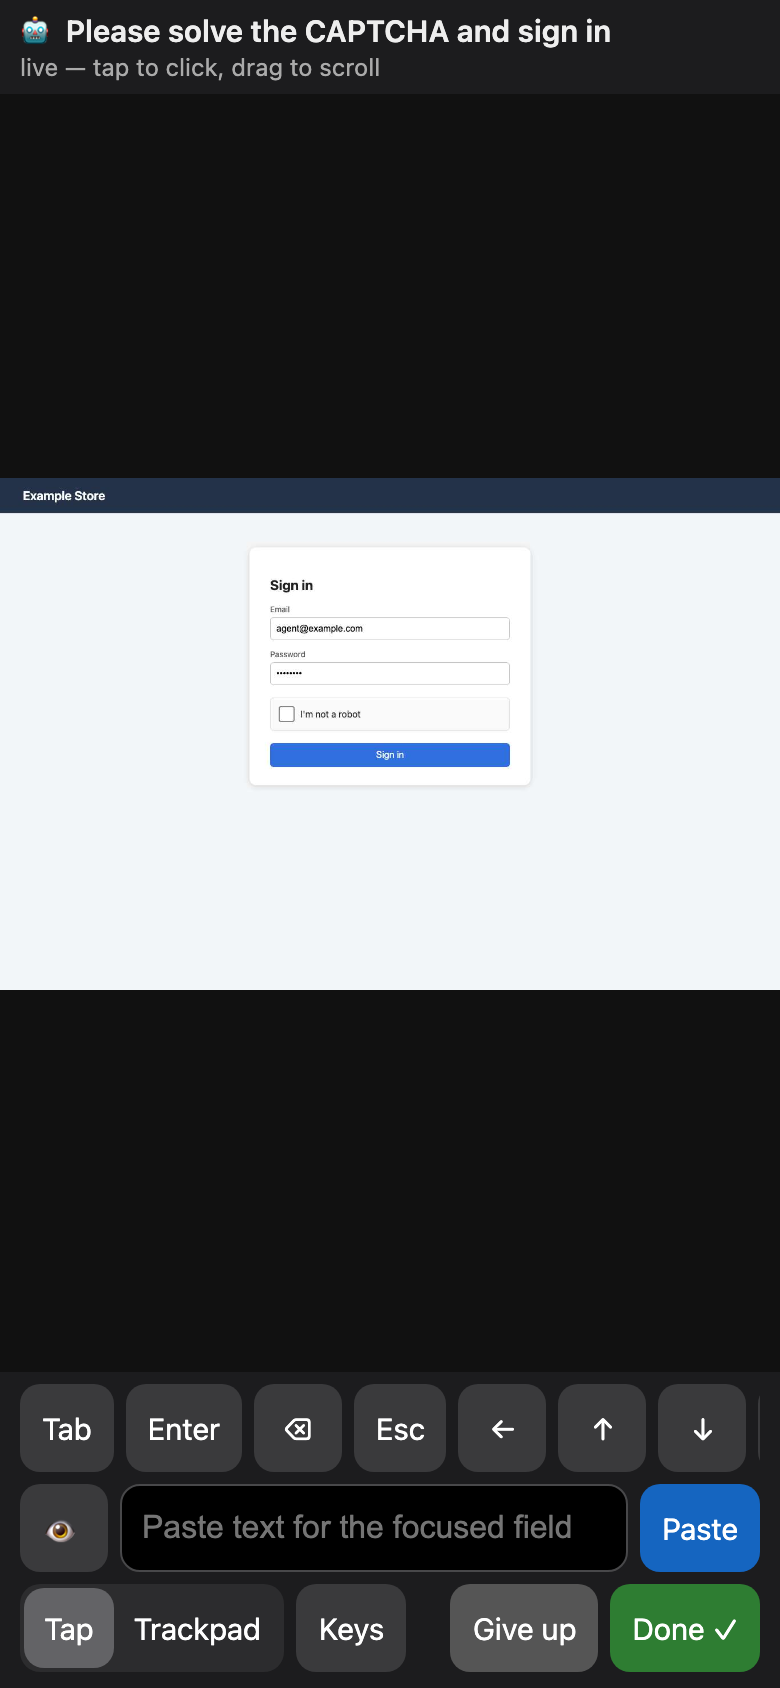
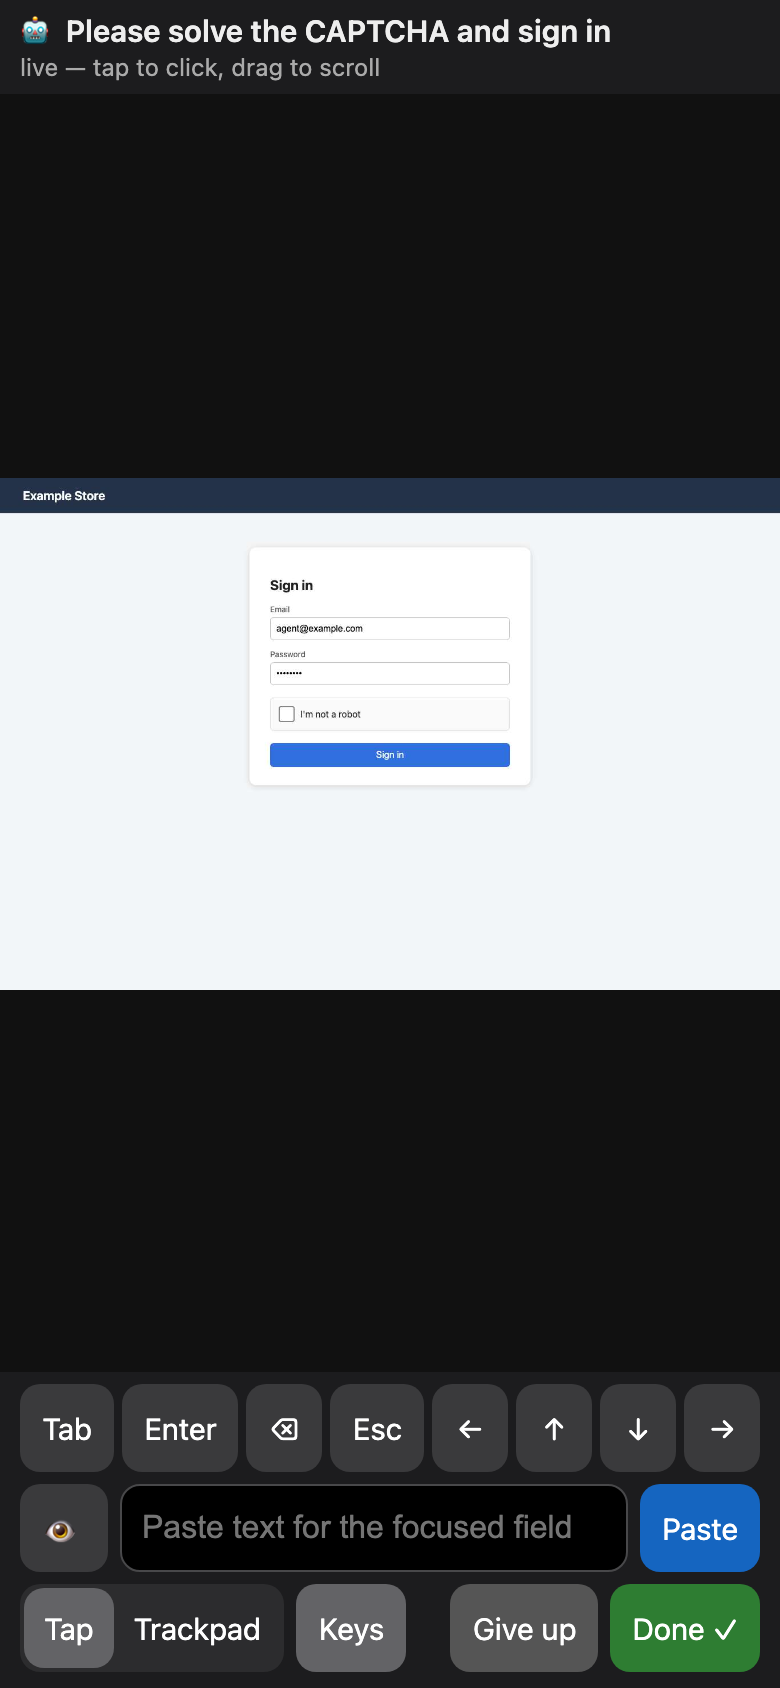
Fix Codex live-view review (P1 + 6x P2)
- P1: no per-tab viewer key (a duplicated tab copied it from sessionStorage and
  could evict a responsive viewer); every newcomer waits for the 5 s rule.
- Snapshots/cursor use the measured CSS viewport when the page has no fixed one
  (patchright), via Page.getLayoutMetrics / innerWidth.
- Release flood bounded: repeated ups collapse, one slot reserved beyond the cap.
- A drag cut off by teardown is released at the current pointer position.
- Bot-loop error needs bot-check evidence (now or seen at that URL within 30 s),
  and is also checked when a tool fails for another reason (wait_for timeout).
- Bottom bar fits 320 px wide (wraps instead of clipping as a last resort).

diff --git a/CHANGELOG.md b/CHANGELOG.md
@@ -10,8 +10,8 @@ From testing the handoff on an iPhone (Safari and Telegram's in-app browser, pla
   `sessionStorage`), so closing Telegram's in-app browser and tapping the link again showed "closed". Now the link
   admits **one viewer at a time** until Done, Give up, expiry or cancel: a second viewer is refused (WebSocket close
   `4409`, and the page waits and retries) while the first is connected, and may take over once the first has been
-  silent for more than 5 s (it is pinged every 2 s). The same tab reconnecting with its viewer key replaces its old
-  socket at once. A finished handoff's link answers 404, with or without a key.
+  silent for more than 5 s (it is pinged every 2 s). There is no per-tab viewer key any more (a duplicated tab
+  would copy it): a reconnecting tab waits like anyone else. A finished handoff's link answers 404.
 
 ### Added
 
@@ -28,12 +28,13 @@ From testing the handoff on an iPhone (Safari and Telegram's in-app browser, pla
   (sliders, drag-to-verify). The service turns each move into a human-looking path (eased steps of ~8 px on a slight
   curve with sub-pixel jitter) instead of jumping. Tap mode behaves as before (scroll now happens at the finger).
   A desktop mouse sends real hover moves and press/release (drag works there too).
-- **Bot-check loop detection:** if a bot-check page keeps reloading (more than 5 navigations to the same page within
-  30 s) or page tools keep failing with "Execution context was destroyed" (3 within 30 s), page tools return
+- **Bot-check loop detection:** if a page that looks like a bot check keeps reloading (more than 5 navigations to the
+  same URL within 30 s) or page tools on it keep failing with "Execution context was destroyed" (3 within 30 s),
+  page tools — also ones that failed for another reason, e.g. a `wait_for` timeout — return
   `bot check keeps reloading (likely IP reputation); try engine chromium + request_human, or another network`. The
   history is reset when a handoff ends.
 - **Mobile layout:** one-line status bar that never covers the page, the stream fitted between the bars, every
-  control (Done, Give up, Keys, paste bar, Tap/Trackpad) in a bottom bar within thumb reach, 44 px targets,
+  control (Done, Give up, Keys, paste bar, Tap/Trackpad) in a bottom bar within thumb reach (down to 320 px wide), 44 px targets,
   `viewport-fit=cover` with safe-area insets, `100dvh` so Safari's toolbar doesn't hide the controls, a key strip
   (Tab, Enter, ⌫, Esc, arrows) behind **Keys**. Screenshots in [docs/liveview/](docs/liveview/).
 - `scripts/liveview-shots.mjs` regenerates those screenshots.
@@ -42,7 +43,8 @@ From testing the handoff on an iPhone (Safari and Telegram's in-app browser, pla
 
 `move {x,y}`, `down {x,y}`, `up {x,y}` and `wheel {x,y,dx?,dy}` join `click`, `text`, `key`, `done`, `giveup`.
 Consecutive queued moves collapse into the latest, queued scrolling at one point adds up, and a release is never
-dropped from a full queue. The service sends `{cursor:{x,y}}` so a new viewer starts where the pointer is.
+dropped from a full queue (repeated releases collapse into one). A drag cut off by teardown is released where the
+pointer is. Snapshots and the initial cursor use the measured CSS viewport where the page has no fixed one (patchright). The service sends `{cursor:{x,y}}` so a new viewer starts where the pointer is.
 
 ## 0.2.0 — engines
 
